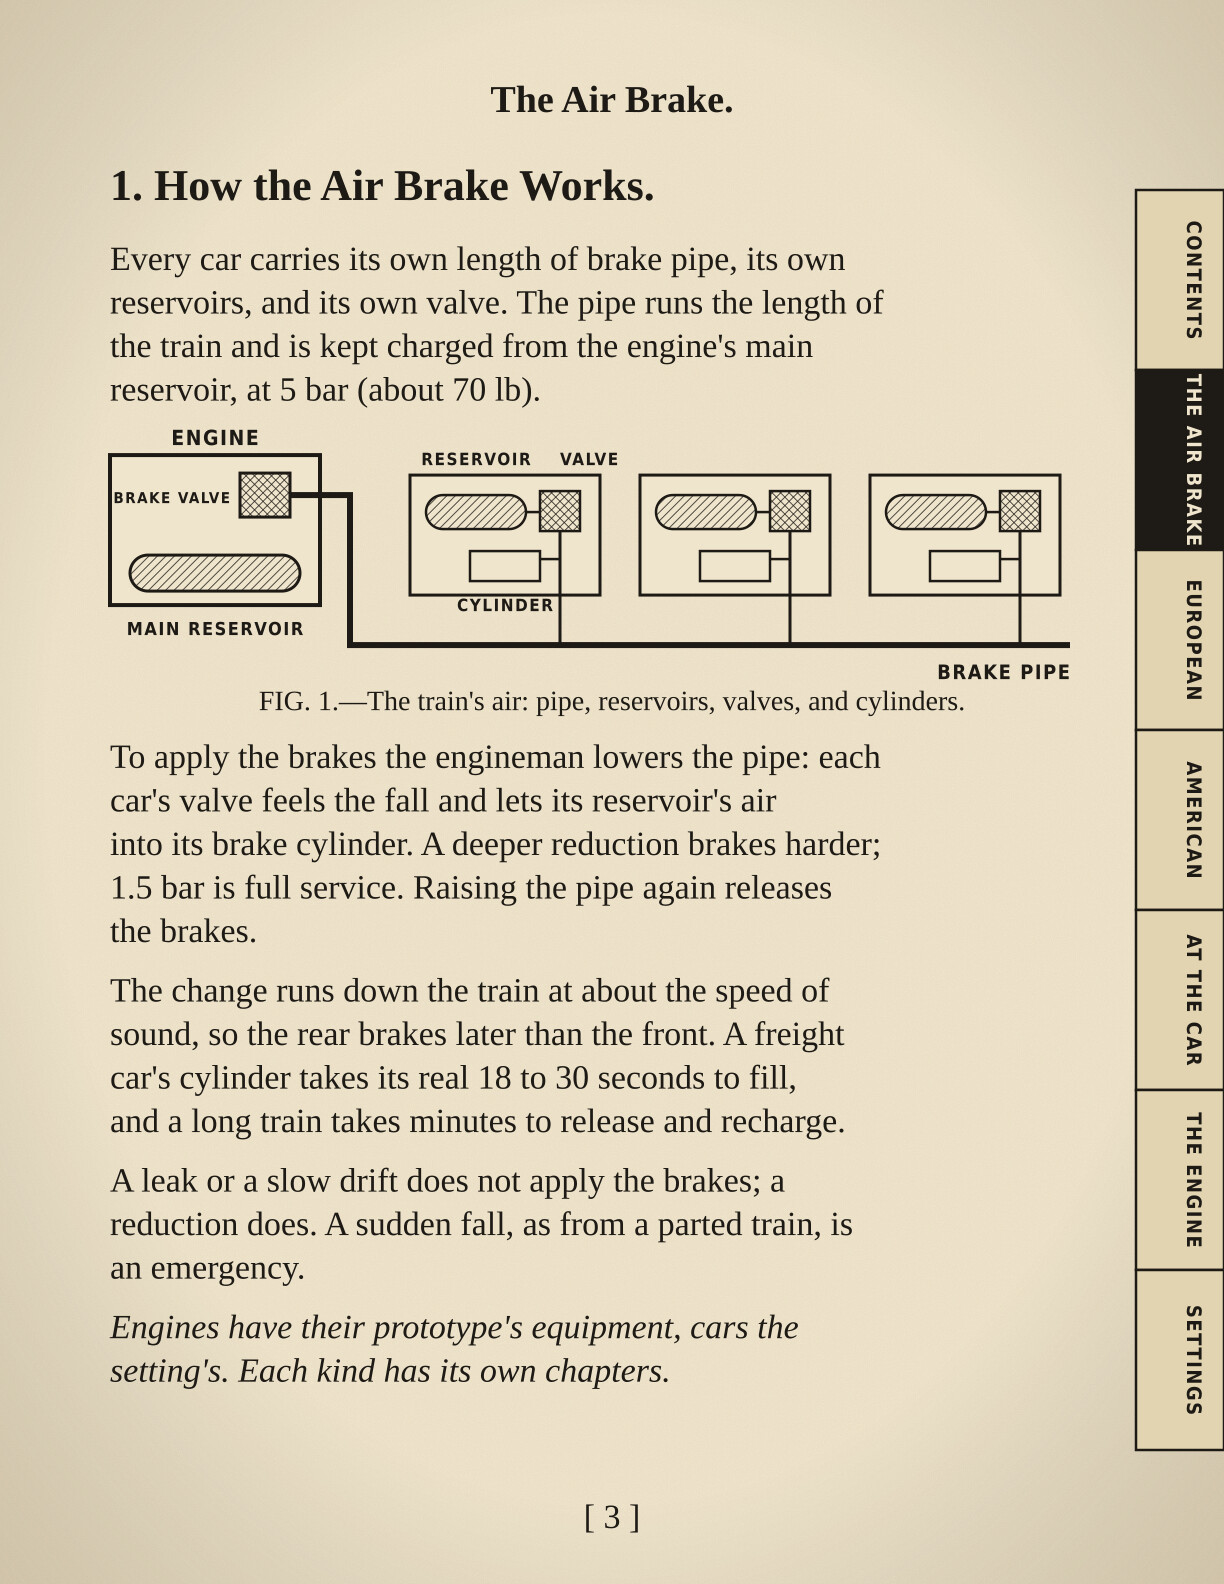
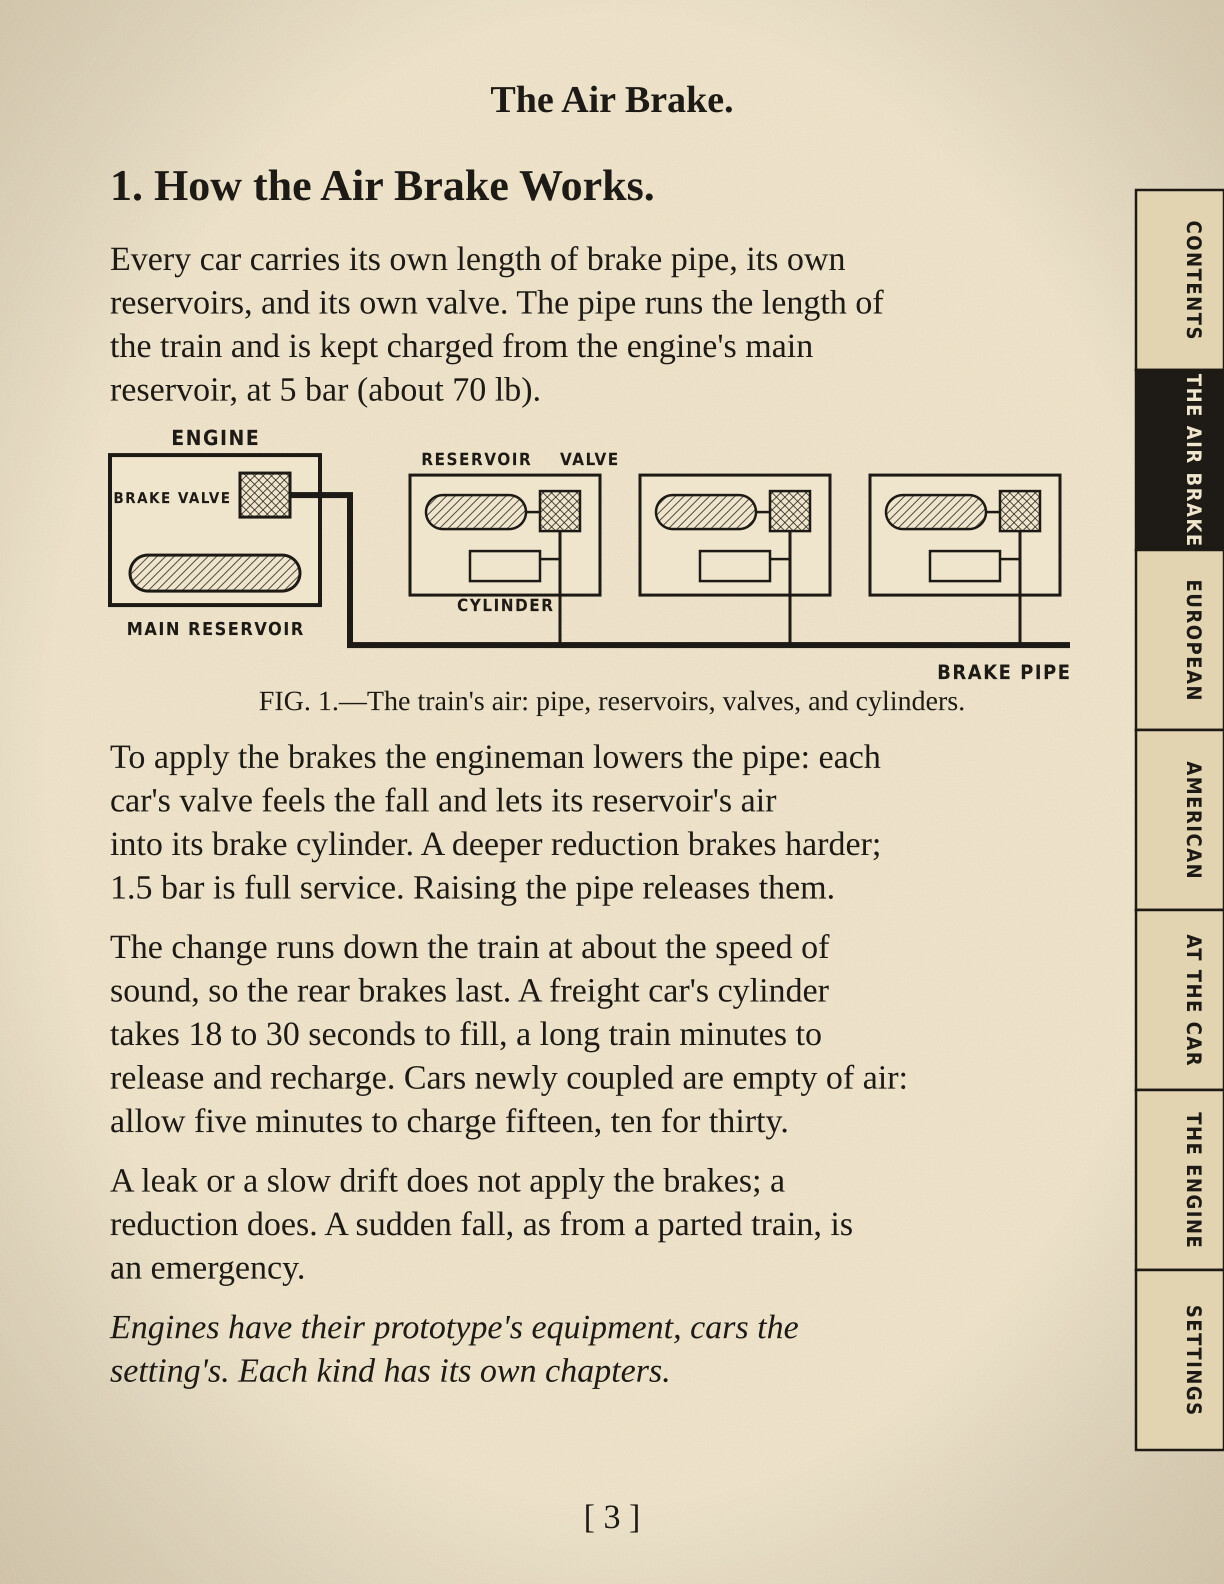
Release Realistic Brakes 1.4.0 source snapshot

Changed region(s): [[0.0931, 0.5568, 0.7141, 0.7424]]

diff --git a/tests/RealisticBrakes.Core.Tests/TrainChargeTests.cs b/tests/RealisticBrakes.Core.Tests/TrainChargeTests.cs
@@ -1,0 +1,139 @@
+using RealisticBrakes.Core;
+
+namespace RealisticBrakes.Core.Tests;
+
+/// <summary>The notice for a train braked before its cars have charged (<see cref="TrainCharge"/>).</summary>
+public class TrainChargeTests
+{
+    private static (int braked, int shortOfAir) Count(Rig rig)
+    {
+        TrainCharge.Count(rig.Cars, rig.Valve.Spec.Running, out var braked, out var shortOfAir);
+        return (braked, shortOfAir);
+    }
+
+    private static Rig Cold(int cars, double seconds, bool american = false)
+    {
+        var rig = new Rig(cars, charged: false, american: american);
+        rig.Engine.Distributor.ChargeTo(Air.FromGaugeBar(5));
+        rig.Valve.ChargeTo(Air.FromGaugeBar(5));
+        rig.Run(seconds);
+        return rig;
+    }
+
+    [Fact]
+    public void AChargedTrainIsNotShort()
+    {
+        Assert.Equal((15, 0), Count(new Rig(15)));
+        Assert.Equal((15, 0), Count(new Rig(15, american: true)));
+    }
+
+    [Fact]
+    public void ATrainJustCoupledIsShortThoughItsPipeReadsNearlyFull()
+    {
+        // Crazylife, 2026-11-09: a minute after coupling the front of the pipe reads over 4 bar, and the cars can't brake.
+        var rig = Cold(15, 60);
+        Assert.True(rig.Front.PipeSection.GaugeBar > 4);
+        Assert.Equal((15, 15), Count(rig));
+        rig.Service(1.5);
+        rig.Run(60);
+        Assert.True(rig.Cars.Skip(1).Average(c => c.CylinderGauge) < 1.0 * Air.Bar);
+        Assert.True(rig.Engine.Cylinder.GaugeBar > 3.5);
+    }
+
+    [Fact]
+    public void OnceItHasChargedItIsNotShortAndBrakesInFull()
+    {
+        var rig = Cold(15, 300);
+        Assert.Equal((15, 0), Count(rig));
+        rig.Service(1.5);
+        rig.Run(60);
+        Assert.True(rig.Cars.Skip(1).Min(c => c.CylinderGauge) > 3.5 * Air.Bar);
+    }
+
+    [Fact]
+    public void ACarCountsAsChargedOnlyOnceItBrakesWell()
+    {
+        // Wherever the count says no car is short, a full service gives every car most of its pressure.
+        var checkedTrains = 0;
+        foreach (var american in new[] { false, true })
+            foreach (var seconds in new[] { 90, 150, 210, 300 })
+            {
+                var rig = Cold(10, seconds, american);
+                var (braked, shortOfAir) = Count(rig);
+                if (shortOfAir > 0)
+                    continue;
+                rig.Service(1.5);
+                rig.Run(60);
+                var least = rig.Cars.Skip(1).Min(c => c.CylinderGauge) / rig.Cars[1].Valve!.FullServiceCylinder;
+                Assert.True(least > 0.7, $"{(american ? "American" : "European")}, {seconds} s: {braked} cars, least {least:P0}");
+                checkedTrains++;
+            }
+        Assert.True(checkedTrains >= 2, $"only {checkedTrains} trains had charged");
+    }
+
+    [Fact]
+    public void AEuropeanTrainBrakedAgainStraightAfterAReleaseIsNotShort()
+    {
+        var rig = new Rig(15);
+        rig.Service(1.5);
+        rig.Run(60);
+        rig.Valve.Position = DriverValvePosition.Running;
+        rig.Run(20);
+        Assert.Equal(0, Count(rig).shortOfAir);
+    }
+
+    [Fact]
+    public void EnginesAndCutOutCarsDontCount()
+    {
+        var rig = Cold(4, 5);
+        rig.Cars[2].Valve!.Isolated = true;
+        Assert.Equal((3, 3), Count(rig));
+        Assert.True(double.IsNaN(TrainCharge.Supply(rig.Cars[0])));
+    }
+
+    [Fact]
+    public void TheHandleAppliesInServiceApplyAndEmergencyOnly()
+    {
+        var valve = new DriverBrakeValve();
+        Assert.False(TrainCharge.Applying(valve));
+        Assert.False(TrainCharge.Applying(null));
+        valve.Position = DriverValvePosition.Service;
+        valve.ServiceReduction = 0.5 * Air.Bar;
+        Assert.True(TrainCharge.Applying(valve));
+        valve.CutIn = false;
+        Assert.False(TrainCharge.Applying(valve));
+        valve.CutIn = true;
+        foreach (var position in new[] { DriverValvePosition.Apply, DriverValvePosition.Emergency })
+        {
+            valve.Position = position;
+            Assert.True(TrainCharge.Applying(valve));
+        }
+        foreach (var position in new[] { DriverValvePosition.Running, DriverValvePosition.Lap, DriverValvePosition.Fill, DriverValvePosition.Holding })
+        {
+            valve.Position = position;
+            Assert.False(TrainCharge.Applying(valve));
+        }
+    }
+
+    [Fact]
+    public void TheDriverIsToldOnceAsTheBrakeGoesOn()
+    {
+        Assert.True(TrainCharge.Tell(wasApplying: false, applying: true, braked: 15, shortOfAir: 15, sinceLast: double.PositiveInfinity));
+        // Not while the brake stays on, not for a few cars, not twice within the minute, and not for an engine alone.
+        Assert.False(TrainCharge.Tell(true, true, 15, 15, double.PositiveInfinity));
+        Assert.False(TrainCharge.Tell(false, false, 15, 15, double.PositiveInfinity));
+        Assert.False(TrainCharge.Tell(false, true, 16, 3, double.PositiveInfinity));
+        Assert.True(TrainCharge.Tell(false, true, 16, 4, double.PositiveInfinity));
+        Assert.False(TrainCharge.Tell(false, true, 15, 15, TrainCharge.RepeatAfter - 1));
+        Assert.False(TrainCharge.Tell(false, true, 0, 0, double.PositiveInfinity));
+        Assert.True(TrainCharge.Tell(false, true, 2, 1, double.PositiveInfinity));
+    }
+
+    [Fact]
+    public void TheNoticeSaysHowMany()
+    {
+        Assert.Equal("12 of 15 cars are short of air and will brake weakly: give the train time to charge", TrainCharge.Message(15, 12));
+        Assert.Equal("All 15 cars are short of air and will brake weakly: give the train time to charge", TrainCharge.Message(15, 15));
+        Assert.Equal("The car is short of air and will brake weakly: give the train time to charge", TrainCharge.Message(1, 1));
+    }
+}

diff --git a/src/RealisticBrakes.Core/TrainCharge.cs b/src/RealisticBrakes.Core/TrainCharge.cs
@@ -1,0 +1,93 @@
+using System;
+using System.Collections.Generic;
+
+namespace RealisticBrakes.Core
+{
+ public static class TrainCharge
+    {
+        /// <summary>
+        /// A car is short of air when what it brakes with stands this far
+        /// under the brake valve's running pressure, Pa. A charged European
+        /// car's auxiliary reservoir gives up about half a bar in a full
+        /// service, so one braked again straight after a release isn't short;
+        /// an American car's gives up more, and is, as its books warn.
+        /// </summary>
+        public const double ShortBy = 1.0 * Air.Bar;
+
+        /// <summary>The share of a train's braked cars short of air from which the driver is told.</summary>
+        public const double WorthTelling = 0.25;
+
+        /// <summary>The notice isn't repeated for this long, s: a driver working the handle hears it once.</summary>
+        public const double RepeatAfter = 60;
+
+        /// <summary>
+        /// The pressure <paramref name="car"/> brakes with, Pa absolute: its
+        /// auxiliary reservoir, and for a European distributor its control
+        /// reservoir too, as the cylinder follows how far the pipe stands
+        /// under that. NaN for an engine, a car without a valve of those two
+        /// kinds, or one cut out, none of which count.
+        /// </summary>
+        public static double Supply(CarBrake car)
+        {
+            if (car == null || car.Locomotive != null || car.Valve == null || car.Valve.Isolated)
+                return double.NaN;
+            if (car.Distributor != null)
+                return Math.Min(car.Distributor.AuxiliaryReservoir.Pressure, car.Distributor.ControlReservoir.Pressure);
+            return car.ControlValve != null ? car.ControlValve.AuxiliaryReservoir.Pressure : double.NaN;
+        }
+
+        /// <summary>
+        /// Counts <paramref name="cars"/>' braked cars and those short of air
+        /// against <paramref name="running"/>, the brake valve's running
+        /// pressure, gauge Pa.
+        /// </summary>
+        public static void Count(IReadOnlyList<CarBrake> cars, double running, out int braked, out int shortOfAir)
+        {
+            braked = 0;
+            shortOfAir = 0;
+            var least = Air.Atmosphere + running - ShortBy;
+            for (var i = 0; i < cars.Count; i++)
+            {
+                var supply = Supply(cars[i]);
+                if (double.IsNaN(supply))
+                    continue;
+                braked++;
+                if (supply < least)
+                    shortOfAir++;
+            }
+        }
+
+        /// <summary>Whether <paramref name="valve"/> stands in a position that applies the train's brakes.</summary>
+        public static bool Applying(DriverBrakeValve valve)
+        {
+            if (valve == null || !valve.CutIn)
+                return false;
+            switch (valve.Position)
+            {
+                case DriverValvePosition.Apply:
+                case DriverValvePosition.Emergency:
+                    return true;
+                case DriverValvePosition.Service:
+                    return valve.ServiceReduction > 0 || valve.Spec.MinimumReduction > 0;
+                default:
+                    return false;
+            }
+        }
+
+        /// <summary>
+        /// Whether to tell the driver: the brake has just gone from off to
+        /// applying, enough of the cars are short, and the notice wasn't
+        /// given within <see cref="RepeatAfter"/>.
+        /// </summary>
+        public static bool Tell(bool wasApplying, bool applying, int braked, int shortOfAir, double sinceLast) =>
+            applying && !wasApplying && braked > 0 && shortOfAir >= Math.Max(1.0, WorthTelling * braked) && sinceLast >= RepeatAfter;
+
+        /// <summary>The notice's text.</summary>
+        public static string Message(int braked, int shortOfAir) =>
+            shortOfAir >= braked
+                ? braked == 1
+                    ? "The car is short of air and will brake weakly: give the train time to charge"
+                    : $"All {braked} cars are short of air and will brake weakly: give the train time to charge"
+                : $"{shortOfAir} of {braked} cars are short of air and will brake weakly: give the train time to charge";
+    }
+}

diff --git a/src/RealisticBrakes/Controls/ChargeNotice.cs b/src/RealisticBrakes/Controls/ChargeNotice.cs
@@ -1,0 +1,57 @@
+using RealisticBrakes.Core;
+using RealisticBrakes.Sim;
+using UnityEngine;
+
+namespace RealisticBrakes.Controls
+{
+ internal sealed class ChargeNotice : MonoBehaviour
+    {
+        private const float Shown = 8f;
+
+        private DriverBrakeValve watched;
+        private bool wasApplying;
+        private float toldAt = float.NegativeInfinity;
+
+        private void Update()
+        {
+            var car = Main.Active ? PlayerManager.Car : null;
+            var set = car != null && car.brakeSystem != null ? car.brakeSystem.brakeset : null;
+            if (set == null || !BrakeSets.TryGetLine(set, out var line))
+            {
+                watched = null;
+                return;
+            }
+            var valve = Working(line);
+            var applying = TrainCharge.Applying(valve);
+            // A valve first seen applying (the player stepping onto a braked train) is no application just made.
+            if (valve != watched)
+            {
+                watched = valve;
+                wasApplying = applying;
+                return;
+            }
+            if (applying && !wasApplying)
+            {
+                TrainCharge.Count(line.Cars, valve.Spec.Running, out var braked, out var shortOfAir);
+                if (TrainCharge.Tell(wasApplying, applying, braked, shortOfAir, Time.time - toldAt))
+                {
+                    toldAt = Time.time;
+                    Notice.Show(TrainCharge.Message(braked, shortOfAir), Shown);
+                }
+            }
+            wasApplying = applying;
+        }
+
+        // The brake valve working the train: the first one cut in.
+        private static DriverBrakeValve Working(BrakeLine line)
+        {
+            for (var i = 0; i < line.Cars.Count; i++)
+            {
+                var valve = line.Cars[i].Locomotive?.DriverValve;
+                if (valve != null && valve.CutIn)
+                    return valve;
+            }
+            return null;
+        }
+    }
+}

diff --git a/art/booklet/make_booklet.py b/art/booklet/make_booklet.py
@@ -29,7 +29,7 @@ INK = "#1e1a15"
 PAPER = "#efe5cc"
 RED = "#9d3427"
 BLUE = "#2e4c80"
-EDITION = "1.3.5"
+EDITION = "1.4.0"
 
 LEFT, RIGHT = 110, W - 144
 
@@ -278,8 +278,8 @@ CHAPTERS = [
         ("h", "1. How the Air Brake Works."),
         ("p", "Every car carries its own length of brake pipe, its own reservoirs, and its own valve. The pipe runs the length of the train and is kept charged from the engine's main reservoir, at 5 bar (about 70 lb)."),
         ("fig", air_figure, 250, "FIG. 1.—The train's air: pipe, reservoirs, valves, and cylinders."),
-        ("p", "To apply the brakes the engineman lowers the pipe: each car's valve feels the fall and lets its reservoir's air into its brake cylinder. A deeper reduction brakes harder; 1.5 bar is full service. Raising the pipe again releases the brakes."),
-        ("p", "The change runs down the train at about the speed of sound, so the rear brakes later than the front. A freight car's cylinder takes its real 18 to 30 seconds to fill, and a long train takes minutes to release and recharge."),
+        ("p", "To apply the brakes the engineman lowers the pipe: each car's valve feels the fall and lets its reservoir's air into its brake cylinder. A deeper reduction brakes harder; 1.5 bar is full service. Raising the pipe releases them."),
+        ("p", "The change runs down the train at about the speed of sound, so the rear brakes last. A freight car's cylinder takes 18 to 30 seconds to fill, a long train minutes to release and recharge. Cars newly coupled are empty of air: allow five minutes to charge fifteen, ten for thirty."),
         ("p", "A leak or a slow drift does not apply the brakes; a reduction does. A sudden fall, as from a parted train, is an emergency."),
         ("note", "Engines have their prototype's equipment, cars the setting's. Each kind has its own chapters."),
     ]),

diff --git a/src/RealisticBrakes/Notice.cs b/src/RealisticBrakes/Notice.cs
@@ -13,12 +13,12 @@ namespace RealisticBrakes
 
         private GUIStyle style;
 
-        /// <summary>Shows <paramref name="message"/> for a few seconds, unless the brake controls' text is off, and logs it.</summary>
-        public static void Show(string message)
+        /// <summary>Shows <paramref name="message"/> for <paramref name="seconds"/> s, unless the brake controls' text is off, and logs it.</summary>
+        public static void Show(string message, float seconds = Seconds)
         {
             Main.Mod?.Logger.Log(message);
             if (Main.Settings == null || Main.Settings.ShowValveText)
-                Display(message);
+                Display(message, seconds);
         }
 
         /// <summary>Shows <paramref name="message"/> for <paramref name="seconds"/> s whatever the settings, and logs it as a warning: a real problem.</summary>

diff --git a/src/RealisticBrakes/Main.cs b/src/RealisticBrakes/Main.cs
@@ -113,6 +113,7 @@ namespace RealisticBrakes
             host.AddComponent<AirOverlay>();
             host.AddComponent<Notice>();
             host.AddComponent<Sim.HandBrakeHold>();
+            host.AddComponent<Controls.ChargeNotice>();
             modEntry.Logger.Log("Realistic Brakes: the model runs every brake set.");
             return true;
         }

diff --git a/PLAYER-GUIDE.md b/PLAYER-GUIDE.md
@@ -45,6 +45,13 @@ The game's **Main Reservoir Fill Time** (in the session settings) speeds up
 only the engines' air pumps, as in the stock game. At the default **100 %**
 they fill ten times as fast as real ones.
 
+**A train you have just coupled needs time to charge.** Cars start with
+empty reservoirs, and they fill in real time: about five minutes for
+fifteen cars, ten for thirty. Until then the engine brakes nearly alone,
+though the pipe gauge already reads almost full. Apply the train brake
+while many of the cars are still short of air and a notice says how many;
+the pressure overlay (in the settings) shows them filling.
+
 A steam engine's air pump takes about the steam a real pump of its time
 took for the air it makes, a fifth of what the stock S282's and S060's
 pumps took, since a train's real reservoirs keep it running for minutes

diff --git a/CHANGELOG.md b/CHANGELOG.md
@@ -1,5 +1,12 @@
 # Changelog
 
+## 1.4.0 (2026-11-11)
+
+- A notice when you apply the train brake before the cars have charged, as
+  on a train you have just coupled. Cars start empty and take minutes to
+  fill, and until then the engine brakes nearly alone. The readme and the
+  booklet say how long to allow.
+
 ## 1.3.5 (2026-11-09)
 
 - Engines whose cab handles are wired to controls of their own, such as the
